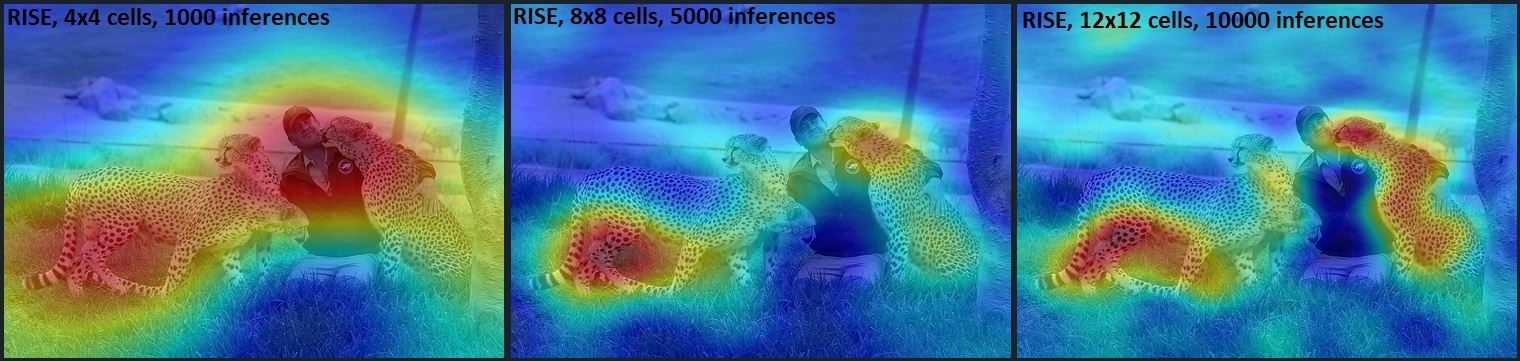
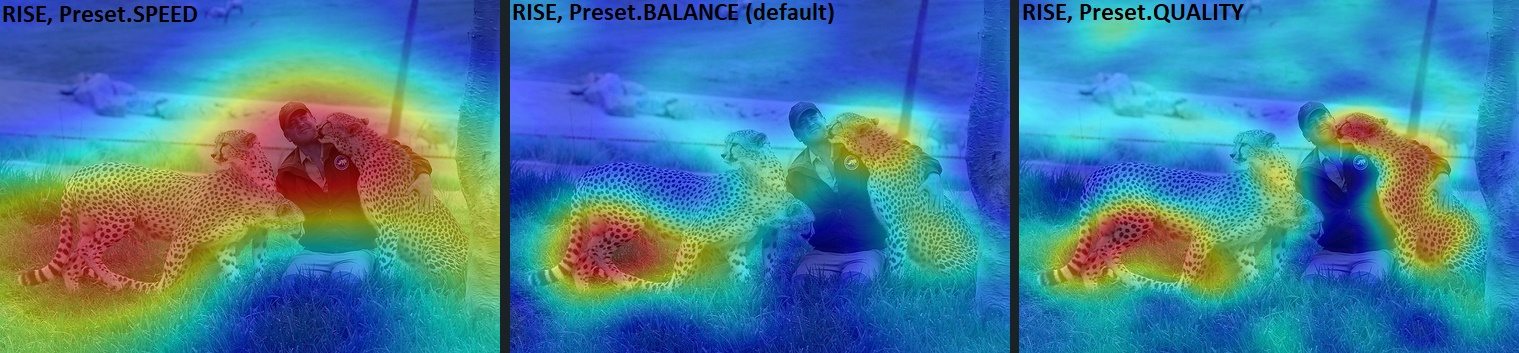
Describe more methods

diff --git a/docs/source/xai-methods.md b/docs/source/xai-methods.md
@@ -1,22 +1,8 @@
-# XAI methods User Guide
+# XAI method User Guide
 
-## Methods overvew
+## Method overviews
 
-At the moment, *Image Classification* and *Object Detection* tasks are supported for the *Computer Vision* domain.
-*Black-Box* (model agnostic but slow) methods and *White-Box* (model specific but fast) methods are supported:
-
-| Domain          | Task                 | Type      | Algorithm           | Links |
-|-----------------|----------------------|-----------|---------------------|-------|
-| Computer Vision | Image Classification | White-Box | ReciproCAM          | [arxiv](https://arxiv.org/abs/2209.14074) / [src](openvino_xai/methods/white_box/recipro_cam.py) |
-|                 |                      |           | VITReciproCAM       | [arxiv](https://arxiv.org/abs/2310.02588) / [src](openvino_xai/methods/white_box/recipro_cam.py) |
-|                 |                      |           | ActivationMap       | experimental / [src](openvino_xai/methods/white_box/activation_map.py)                           |
-|                 |                      | Black-Box | AISEClassification  | [src](openvino_xai/methods/black_box/aise.py)                                                    |
-|                 |                      |           | RISE                | [arxiv](https://arxiv.org/abs/1806.07421v3) / [src](openvino_xai/methods/black_box/rise.py)      |
-|                 | Object Detection     | White-Box | ClassProbabilityMap | experimental / [src](openvino_xai/methods/white_box/det_class_probability_map.py)                |
-|                 |                      | Black-Box | AISEDetection       | [src](openvino_xai/methods/black_box/aise.py)                                                    |
-
-
-Below we show the comparison of supported methods.
+At the moment, the following XAI methods are supported:
 
 | Method                 | Using model internals | Per-target support | Single-shot | #Model inferences |
 |------------------------|-----------------------|--------------------|-------------|-------------------|
@@ -24,21 +10,23 @@ Below we show the comparison of supported methods.
 | Activation Map         | Yes                   | No                 | Yes         | 1                 |
 | Recipro-CAM            | Yes                   | Yes (class)        | Yes*        | 1*                |
 | ViT Recipro-CAM        | Yes                   | Yes (class)        | Yes*        | 1*                |
-| DetClassProbabilityMap | Yes**                | Yes (class)        | Yes         | 1                 |
+| DetClassProbabilityMap | Yes**                 | Yes (class)        | Yes         | 1                 |
 | Black-Box              |                       |                    |             |                   |
-| RISE                   | No                    | Yes (class)        | No          | 2000-8000         |
-| AISEClassification     | No                    | Yes (class)        | No          | 300-..            |
-| AISEDetection          | No                    | Yes (bbox)         | No          | 150-..            |
+| RISE                   | No                    | Yes (class)        | No          | 1000-10000        |
+| AISEClassification     | No                    | Yes (class)        | No          | 120-500           |
+| AISEDetection          | No                    | Yes (bbox)         | No          | 60-250            |
 
 \* Recipro-CAM re-infers part of the graph (usually neck + head or last transformer block) H*W times, where HxW – feature map size of the target layer.
 
-** DetClassProbabilityMap requires explicit definition of the target layers. The rest of the white-box methods support automatic detection of the target layer.
+** DetClassProbabilityMap requires explicit definition of the target layers.
+The rest of the white-box methods support automatic detection of the target layer.
 
 Target layer is the part of the model graph where XAI branch will be inserted (applicable for white-box methods).
 
-All supported methods are gradient-free.
+All supported methods are gradient-free, which suits deployment framework settings (e.g. OpenVINO™), where the model is in optimized or compiled representation.
 
 ## White-Box methods
+
 When to use?
 - When model architecture follows standard CNN-based or ViT-based design (OV-XAI support 1000+ CNN and ViT models TODO:LINK).
 - When speed matters. White-box methods is fast - it takes ~one model inference to generate saliency map.
@@ -47,6 +35,7 @@ When to use?
 All white-box methods require access to model internal state. To generate saliency map, supported white-box methods potentially change and process internal model activations in a way that fosters compute efficiency.
 
 ### Activation Map
+
 Suitable for:
 - Binary classification problems (e.g. inspecting model reasoning when predicting a positive class).
 - Visualization of the global (class-agnostic) model attention (e.g. inspecting which input pixels are the most salient for the model).
@@ -58,18 +47,19 @@ Below saliency map was obtained for [ResNet-18](https://huggingface.co/timm/resn
 ![OpenVINO XAI Architecture](_static/map_samples/ActivationMap_resnet18.a1_in1k_activation_map.jpg)
 
 ### Recipro-CAM (ViT Recipro-CAM for ViT models)
+
 Suitable for:
 - Almost all CNN-based architectures.
 - Many ViT-based architectures.
 
-[Recipro-CAM](https://arxiv.org/abs/2209.14074) involves spatially masking the extracted feature maps to exploit the correlation between activation maps and model predictions for target classes. It is perturbation-based method which perturbs internal model activations.
+[Recipro-CAM](../../openvino_xai/methods/white_box/recipro_cam.py) involves spatially masking of the extracted feature maps to exploit the correlation between activation maps and model predictions for target classes. It is perturbation-based method which perturbs internal model activations.
 
 Assume 7x7 feature map which is extracted by the CNN backbone. One location of the feature map is preserved (e.g. at index [0, 0]), while the rest feature map values is masked out with e.g. zeros (perturbation is the same across channel dimension). Perturbed feature map inferred through the model head. The the model prediction scores are used as saliency scores for index [0, 0]. This is repeated for all 49 spatial location. The final saliency map obtained after resizing and scaling. See [paper](https://arxiv.org/abs/2209.14074) for more details.
 
-Recipro-CAM is an efficient XAI method.
+`Recipro-CAM` is an efficient XAI method.
 The main weak point is that saliency for each pixel in the feature map space is estimated in isolation, without taking into account joint contribution of different pixels/features.
 
-Recipro-CAM is the default method for the classification task. ViT Recipro-CAM is a modification of Recipro-CAM for ViT-based models.
+`Recipro-CAM` is the default method for the classification task. [ViT Recipro-CAM](../../openvino_xai/methods/white_box/recipro_cam.py) is a modification of Recipro-CAM for ViT-based models.
 
 Below saliency map was obtained for [ResNet-18](https://huggingface.co/timm/resnet18.a1_in1k) from [timm](https://huggingface.co/timm) and "cheetah" class:
 
@@ -77,58 +67,78 @@ Below saliency map was obtained for [ResNet-18](https://huggingface.co/timm/resn
 
 
 ### DetClassProbabilityMap
+
 Suitable for:
 - Single-stage object detection models.
 - When it is enough to estimate saliency maps per-class.
 
-DetClassProbabilityMap takes the raw classification head output and uses class probability maps to calculate regions of interest for each class. So, it creates different salience maps for each class. This algorithm is implemented for single-stage detectors only.
+[DetClassProbabilityMap](../../openvino_xai/methods/white_box/det_class_probability_map.py) takes the raw classification head output and uses class probability maps to calculate regions of interest for each class. So, it creates different salience maps for each class. This algorithm is implemented for single-stage detectors only and required explicit list of target layers.
 
 The main limitation of this method is that, due to the training loss design of most single-stage detectors, activation values drift towards the center of the object while propagating through the network. Many object detectors, while being designed to precisely estimate location of the objects, might mess up spatial location of object features in the latent space.
 
+Below saliency map was obtained for `YOLOX` trained in-house on PASCAL VOC dataset:
+
+![OpenVINO XAI Architecture](_static/map_samples/DetClassProbabilityMap.jpg)
 
 ## Black-Box methods
+
 When to use?
 - When custom models are used and/or white-box methods fail (e.g. Swin-based transformers).
 - When more advanced model explanation is required. See more details below (e.g. in the RISE overview).
 - When spacial location of the features is messed up in the latent space (e.g. some single-stage object detection models).
 
-All black-box methods are perturbation-based - they perturb the input and register the change in the output. 
+All black-box methods are perturbation-based - they perturb the input and register the change in the output.
 Usually, for high quality saliency map, hundreds or thousands of model inferences required. That is the reason for them to be compute-inefficient. On the other hand, black box methods are model-agnostic.
 
-Given that the quality of the saliency maps usually correlates with the number of available inferences, we propose the following presets for the black-box methods: Preset.SPEED, Preset.BALANCE, Preset.QUALITY (Preset.BALANCE is used by default).
+Given that the quality of the saliency maps usually correlates with the number of available inferences, we propose the following presets for the black-box methods: `Preset.SPEED`, `Preset.BALANCE`, `Preset.QUALITY` (`Preset.BALANCE` is used by default).
 Apart from that, methods parameters can be defined directly via Explainer or Method API.
 
 ### RISE
+
 Suitable for:
 - All classification models which can generate per-class prediction scores.
-- More flexibility and more advanced use cases.
+- More flexibility and more advanced use cases (e.g. control of granularity of the saliency map).
 
-[RISE](https://arxiv.org/abs/1806.07421v3) probes a model by sub-sampling the input image via random masks and records its response to each of them. 
+[RISE](../../openvino_xai/methods/black_box/rise.py) probes a model by sub-sampling the input image via random masks and records its response to each of them.
 RISE creates random masks from down-scaled space (e.g. 7×7 grid) and adds random translation shifts for the pixel-level explanation with further up-sampling. Weighted sum of all sampled masks used to generate the fine-grained saliency map.
 Since it approximates the true saliency map with Monte Carlo sampling, it requires multiple thousands of forward passes to generate a fine-grained saliency map. RISE is a non-deterministic method.
 See [paper](https://arxiv.org/abs/1806.07421v3) for more details.
 
-Below saliency map was obtained for [ResNet-18](https://huggingface.co/timm/resnet18.a1_in1k) from [timm](https://huggingface.co/timm) and "cheetah" class (default parameters):
+`RISE` generates saliency maps for all classes at once, although indices of target classes can be provided (which might bring some performance boost).
 
-![OpenVINO XAI Architecture](_static/map_samples/RISE_BALANCE_resnet18.a1_in1k_293.jpg)
+`RISE` has two main hyperparameter: `num_cells` (define the resolution of the grid for the masks) and `num_masks` (defines number of inferences).
+Number of cells defines granularity of the saliency map (usually, the higher the granularity - the better). Higher number of cells require more masks to converge. Going from `Preset.SPEED` to `Preset.QUALITY`, the number of masks (compute budget) increases.
 
-RISE has two main hyperparameter: num_cells (define the resolution of the grid for the masks) and num_masks (defines number of inferences). 
-Number of cells defines granularity of the saliency map. Higher number of cells require more masks to converge:
+Below saliency map was obtained for [ResNet-18](https://huggingface.co/timm/resnet18.a1_in1k) from [timm](https://huggingface.co/timm) and "cheetah" class (default parameters).
 
 ![OpenVINO XAI Architecture](_static/map_samples/RISE_resnet18.a1_in1k_293.jpg)
 
-It is possible to see, that some grass-related pixels from the left cheetah also contribute to the cheetah prediction, which might indicates that model learned cheetah features in combination with grass (which make sense).
+It is possible to see, that some grass-related pixels from the left cheetah also contribute to the cheetah prediction, which might indicates that model learned cheetah features in combination with grass (which makes sense).
 
 ### AISEClassification
+
 Suitable for:
 - All classification models which can generate per-class prediction scores.
-- When speed matters. AISE is an optimized version of RISE.
+- Cases when speed matters.
 
-![OpenVINO XAI Architecture](_static/map_samples/AISE_BALANCE_resnet18.a1_in1k_293.jpg)
+`AISE` formulates saliency map generation as a kernel density estimation (KDE) problem, and adaptively sample input masks using a derivative-free optimizer to maximize mask saliency score. KDE requires a proper kernel width, which is not known. A set of pre-defined kernel widths is used simultaneously, and the result is them aggregated. This adaptive sampling mechanism improves the efficiency of input mask generation and thus increases convergence speed. AISE is designed to be task-agnostic and can be applied to a wide range of classification and object detection architectures.
+`AISE` is optimized for generating saliency map for a specific class (or a few classes). To specify target classes, use targets argument.
+
+[AISEClassification](../../openvino_xai/methods/black_box/aise/classification.py) is designed for classification models.
+
+Below saliency map was obtained for [ResNet-18](https://huggingface.co/timm/resnet18.a1_in1k) from [timm](https://huggingface.co/timm) and "cheetah" class:
+
+![OpenVINO XAI Architecture](_static/map_samples/AISE_resnet18.a1_in1k_293.jpg)
 
 ### AISEDetection
+
 Suitable for:
 - All detection models which can generate bounding boxes, labels and scores.
-- When speed matters. AISE is an optimized version of RISE.
+- When speed matters.
 - When it is required to get per-box saliency map.
 
+[AISEDetection](../../openvino_xai/methods/black_box/aise/detection.py) is designed for detection models and support per-bounding box saliency maps.
+
+Below saliency map was obtained for `YOLOX` trained in-house on PASCAL VOC dataset (with default parameters, `Preset.BALANCE):
+
+![OpenVINO XAI Architecture](_static/map_samples/AISEDetection.jpg)

diff --git a/README.md b/README.md
@@ -67,15 +67,17 @@ Please refer to the [change logs](CHANGELOG.md) for the full release history.
 At the moment, *Image Classification* and *Object Detection* tasks are supported for the *Computer Vision* domain.
 *Black-Box* (model agnostic but slow) methods and *White-Box* (model specific but fast) methods are supported:
 
-| Domain          | Task                 | Type      | Algorithm           | Links |
-|-----------------|----------------------|-----------|---------------------|-------|
-| Computer Vision | Image Classification | White-Box | ReciproCAM          | [arxiv](https://arxiv.org/abs/2209.14074) / [src](openvino_xai/methods/white_box/recipro_cam.py) |
-|                 |                      |           | VITReciproCAM       | [arxiv](https://arxiv.org/abs/2310.02588) / [src](openvino_xai/methods/white_box/recipro_cam.py) |
-|                 |                      |           | ActivationMap       | experimental / [src](openvino_xai/methods/white_box/activation_map.py)                           |
-|                 |                      | Black-Box | AISEClassification  | [src](openvino_xai/methods/black_box/aise.py)                                                    |
-|                 |                      |           | RISE                | [arxiv](https://arxiv.org/abs/1806.07421v3) / [src](openvino_xai/methods/black_box/rise.py)      |
-|                 | Object Detection     | White-Box | ClassProbabilityMap | experimental / [src](openvino_xai/methods/white_box/det_class_probability_map.py)                |
-|                 |                      | Black-Box | AISEDetection       | [src](openvino_xai/methods/black_box/aise.py)                                                    |
+| Domain          | Task                 | Type      | Algorithm              | Links |
+|-----------------|----------------------|-----------|------------------------|-------|
+| Computer Vision | Image Classification | White-Box | ReciproCAM             | [arxiv](https://arxiv.org/abs/2209.14074) / [src](openvino_xai/methods/white_box/recipro_cam.py) |
+|                 |                      |           | VITReciproCAM          | [arxiv](https://arxiv.org/abs/2310.02588) / [src](openvino_xai/methods/white_box/recipro_cam.py) |
+|                 |                      |           | ActivationMap          | experimental / [src](openvino_xai/methods/white_box/activation_map.py)                           |
+|                 |                      | Black-Box | AISEClassification     | [src](openvino_xai/methods/black_box/aise/classification.py)                                     |
+|                 |                      |           | RISE                   | [arxiv](https://arxiv.org/abs/1806.07421v3) / [src](openvino_xai/methods/black_box/rise.py)      |
+|                 | Object Detection     | White-Box | DetClassProbabilityMap | experimental / [src](openvino_xai/methods/white_box/det_class_probability_map.py)                |
+|                 |                      | Black-Box | AISEDetection          | [src](openvino_xai/methods/black_box/aise/detection.py)                                          |
+
+See more method comparison at [XAI method User Guide](docs/source/user-guide.md).
 
 ### Supported explainable models
 

diff --git a/CHANGELOG.md b/CHANGELOG.md
@@ -10,6 +10,7 @@
 * Add saliency map visualization with explanation.plot()
 * Enable flexible naming for saved saliency maps and include confidence scores
 * Add Pointing Game, Insertion-Deletion AUC and ADCC quality metrics for saliency maps
+* Add XAI method documentation
 
 ### What's Changed
 
@@ -26,6 +27,8 @@
 * Add [Insertion-Deletion AUC](https://arxiv.org/abs/1806.07421) saliency map quality metric by @GalyaZalesskaya in https://github.com/openvinotoolkit/openvino_xai/pull/56
 * Add [ADCC](https://arxiv.org/abs/2104.10252) saliency map quality metric by @GalyaZalesskaya in https://github.com/openvinotoolkit/openvino_xai/pull/57
 * Enable AISE for detection: Adaptive Input Sampling for Explanation of Black-box Models by @negvet in https://github.com/openvinotoolkit/openvino_xai/pull/55
+* Enable prediction attribute for methods that is used for enhancing saliency map overlay by @negvet in https://github.com/openvinotoolkit/openvino_xai/pull/62
+* Add documentation per-method, including summary and usage guide by @negvet in https://github.com/openvinotoolkit/openvino_xai/pull/63
 
 ### Known Issues
 
